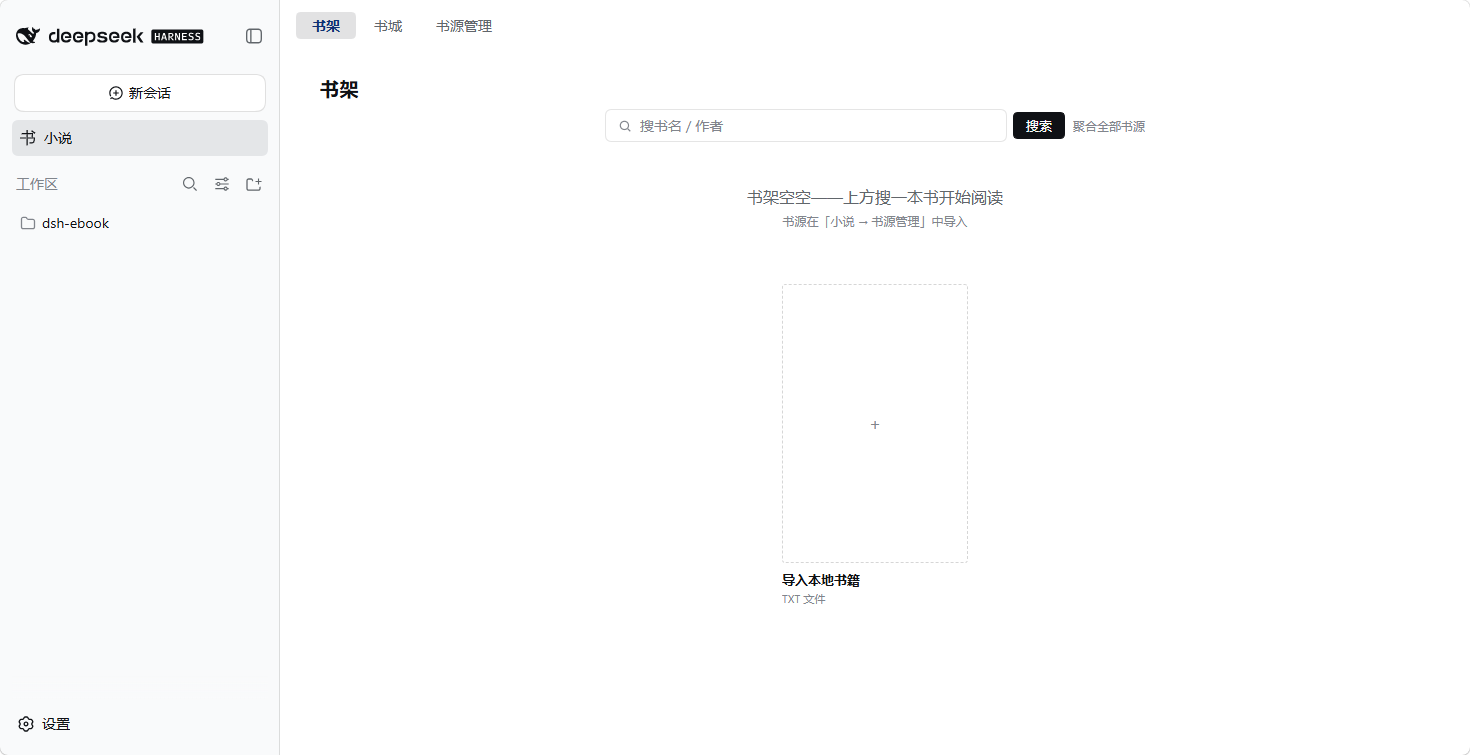
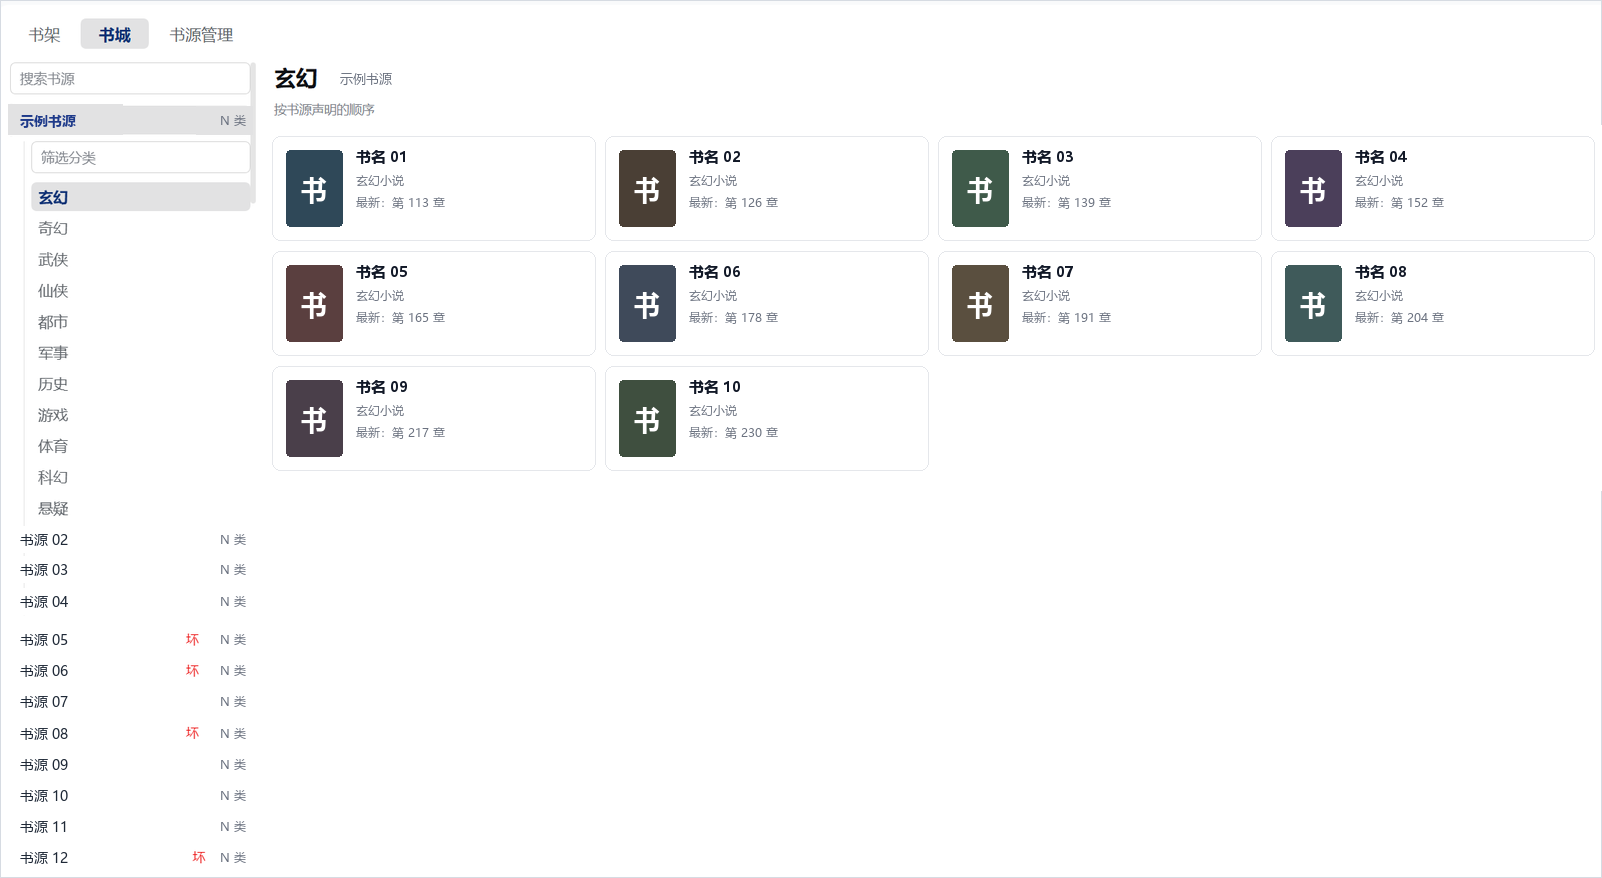
fix(services,docs): 书架读取面按最近阅读排序，README 按当前界面重写
书架界面与客户端文案早已写「最近阅读排序」，读取面却仍按 shelf.json 插入序返回，
读过的书不会回到最前，API / 工具 / 书架三面与文案不一致。读取面统一按进度
updatedAt 降序、同刻按 addedAt 与 bookKey 定序，并补用例钉住。

README 按当前产品面重排：补 npm / license / 宿主实测 badge，功能收成四个场景，
补书城、书源管理、书架、阅读器与插件页五张脱敏截图，内部链接与图片改为仓库
相对路径以兼顾 GitCode 镜像；同步 $DSH_HOME 数据根口径到 AGENTS / 架构文档。

diff --git a/src/services/reading.ts b/src/services/reading.ts
@@ -467,11 +467,18 @@ export class ReadingService {
 
   // ── 书架动词 ──
 
-  /** 书架读取面：落盘条目 + **来源投影**（sourceName）。
+  /** 书架读取面：落盘条目 + **来源投影**（sourceName），按**最近阅读**排序。
+   *  排序键是进度自己的 `updatedAt`（每次存进度刷新；新书 = 加入时刻），
+   *  同刻按加入时间、再按 bookKey 定序，保证 API / 工具 / 书架三面读到的顺序一致。
    *  源名在这里实时 join 注册表（与 SearchGroup.sourceName 同一口径）——落盘快照会在源改名 /
    *  同址替换复用 id 后陈旧（intake 复用旧 id，见按址去重）。join 不到 = 源已被删 → null。 */
   shelfList(): ShelfEntry[] {
-    return this.shelf.list().map((b) => ({ ...b, sourceName: this.sourceNameOf(b.sourceId) }))
+    return this.shelf.list()
+      .map((b) => ({ ...b, sourceName: this.sourceNameOf(b.sourceId) }))
+      .sort((a, b) =>
+        b.progress.updatedAt - a.progress.updatedAt
+        || b.addedAt - a.addedAt
+        || (a.bookKey < b.bookKey ? -1 : a.bookKey > b.bookKey ? 1 : 0))
   }
 
   /** 来源投影的唯一算式：本地书恒 null（本地身份归 LOCAL_SOURCE_ID 判别，不查注册表）；

diff --git a/tests/services/reading.test.ts b/tests/services/reading.test.ts
@@ -1046,6 +1046,20 @@ describe('门面直测（invariant 与 loginPlan 不再只穿 HTTP 测）', () =
     expect((await svc.removeLocalBook(local.bookKey)).removed).toBe(false)
   })
 
+  it('shelfList 按最近阅读排序：刚存过进度的书排到最前', async () => {
+    const svc = await mk()
+    const clock = vi.spyOn(Date, 'now')
+    try {
+      clock.mockReturnValue(100); svc.shelfAdd('a', { sourceId: 's', title: 'A' })
+      clock.mockReturnValue(200); svc.shelfAdd('b', { sourceId: 's', title: 'B' })
+      clock.mockReturnValue(300); svc.shelfAdd('c', { sourceId: 's', title: 'C' })
+      clock.mockReturnValue(400); svc.shelfSaveProgress('b', 1, 0)
+      expect(svc.shelfList().map((b) => b.bookKey)).toEqual(['b', 'c', 'a'])
+    } finally {
+      clock.mockRestore()
+    }
+  })
+
   it('shelfList 来源投影：源名实时 join——源删了投影跟着变 null，本地书恒 null', async () => {
     const svc = await mk()
     const src = await svc.importOne(rawSource)                       // bookSourceName: 'S'

diff --git a/AGENTS.md b/AGENTS.md
@@ -54,5 +54,5 @@ DeepSeek Harness（DSH）的「小说」插件：导入 legado 书源 → 聚合
 - **`lib/` 是构建产物且不入库**：先 `pnpm build`，否则整个插件树拒绝挂载（`plugin tree failed to load` + `ERR_MODULE_NOT_FOUND`）。完整说明见 `docs/development.md` 的「构建与日常开发」。
 - **改动生效路径分两半**：浏览器半由宿主 HMR 热推，Node 半必须重启宿主；前提与细节见 `docs/development.md` 的「构建与日常开发」。
 - **出站代理**：DSH 的 Node 进程走 undici，**不读系统代理**；只有代理能到的站点必须配 `proxyUrl`，否则表现为「浏览器能开、插件打不开」。
-- **运行时数据不在仓库**：书源 / 书架 / 缓存 / 本地书住 `~/.dsh/novel/`（`dataDir` 可改）。
+- **运行时数据不在仓库**：书源 / 书架 / 缓存 / 本地书住 `$DSH_HOME/novel/`（缺省 `~/.dsh/novel/`；`dataDir` 可改）。
 - **`compat/report.md` 是跑门产物**：`pnpm test:compat` 每次覆盖写，已 gitignore；它的分母是 `compat/fixtures/` 下的 fixture，**不是站点可用率**。

diff --git a/docs/development.md b/docs/development.md
@@ -5,7 +5,7 @@
 ## 构建与日常开发
 
 ```powershell
-git clone https://github.com/xrn1997/dsh-novel.git
+git clone <仓库地址>   # GitHub 或 GitCode 镜像均可
 cd dsh-novel
 pnpm install
 pnpm build        # 构建 lib/（Node 半 + 浏览器半）+ lib/types/（tsc 声明）；改动源码后、重启宿主前必须执行
